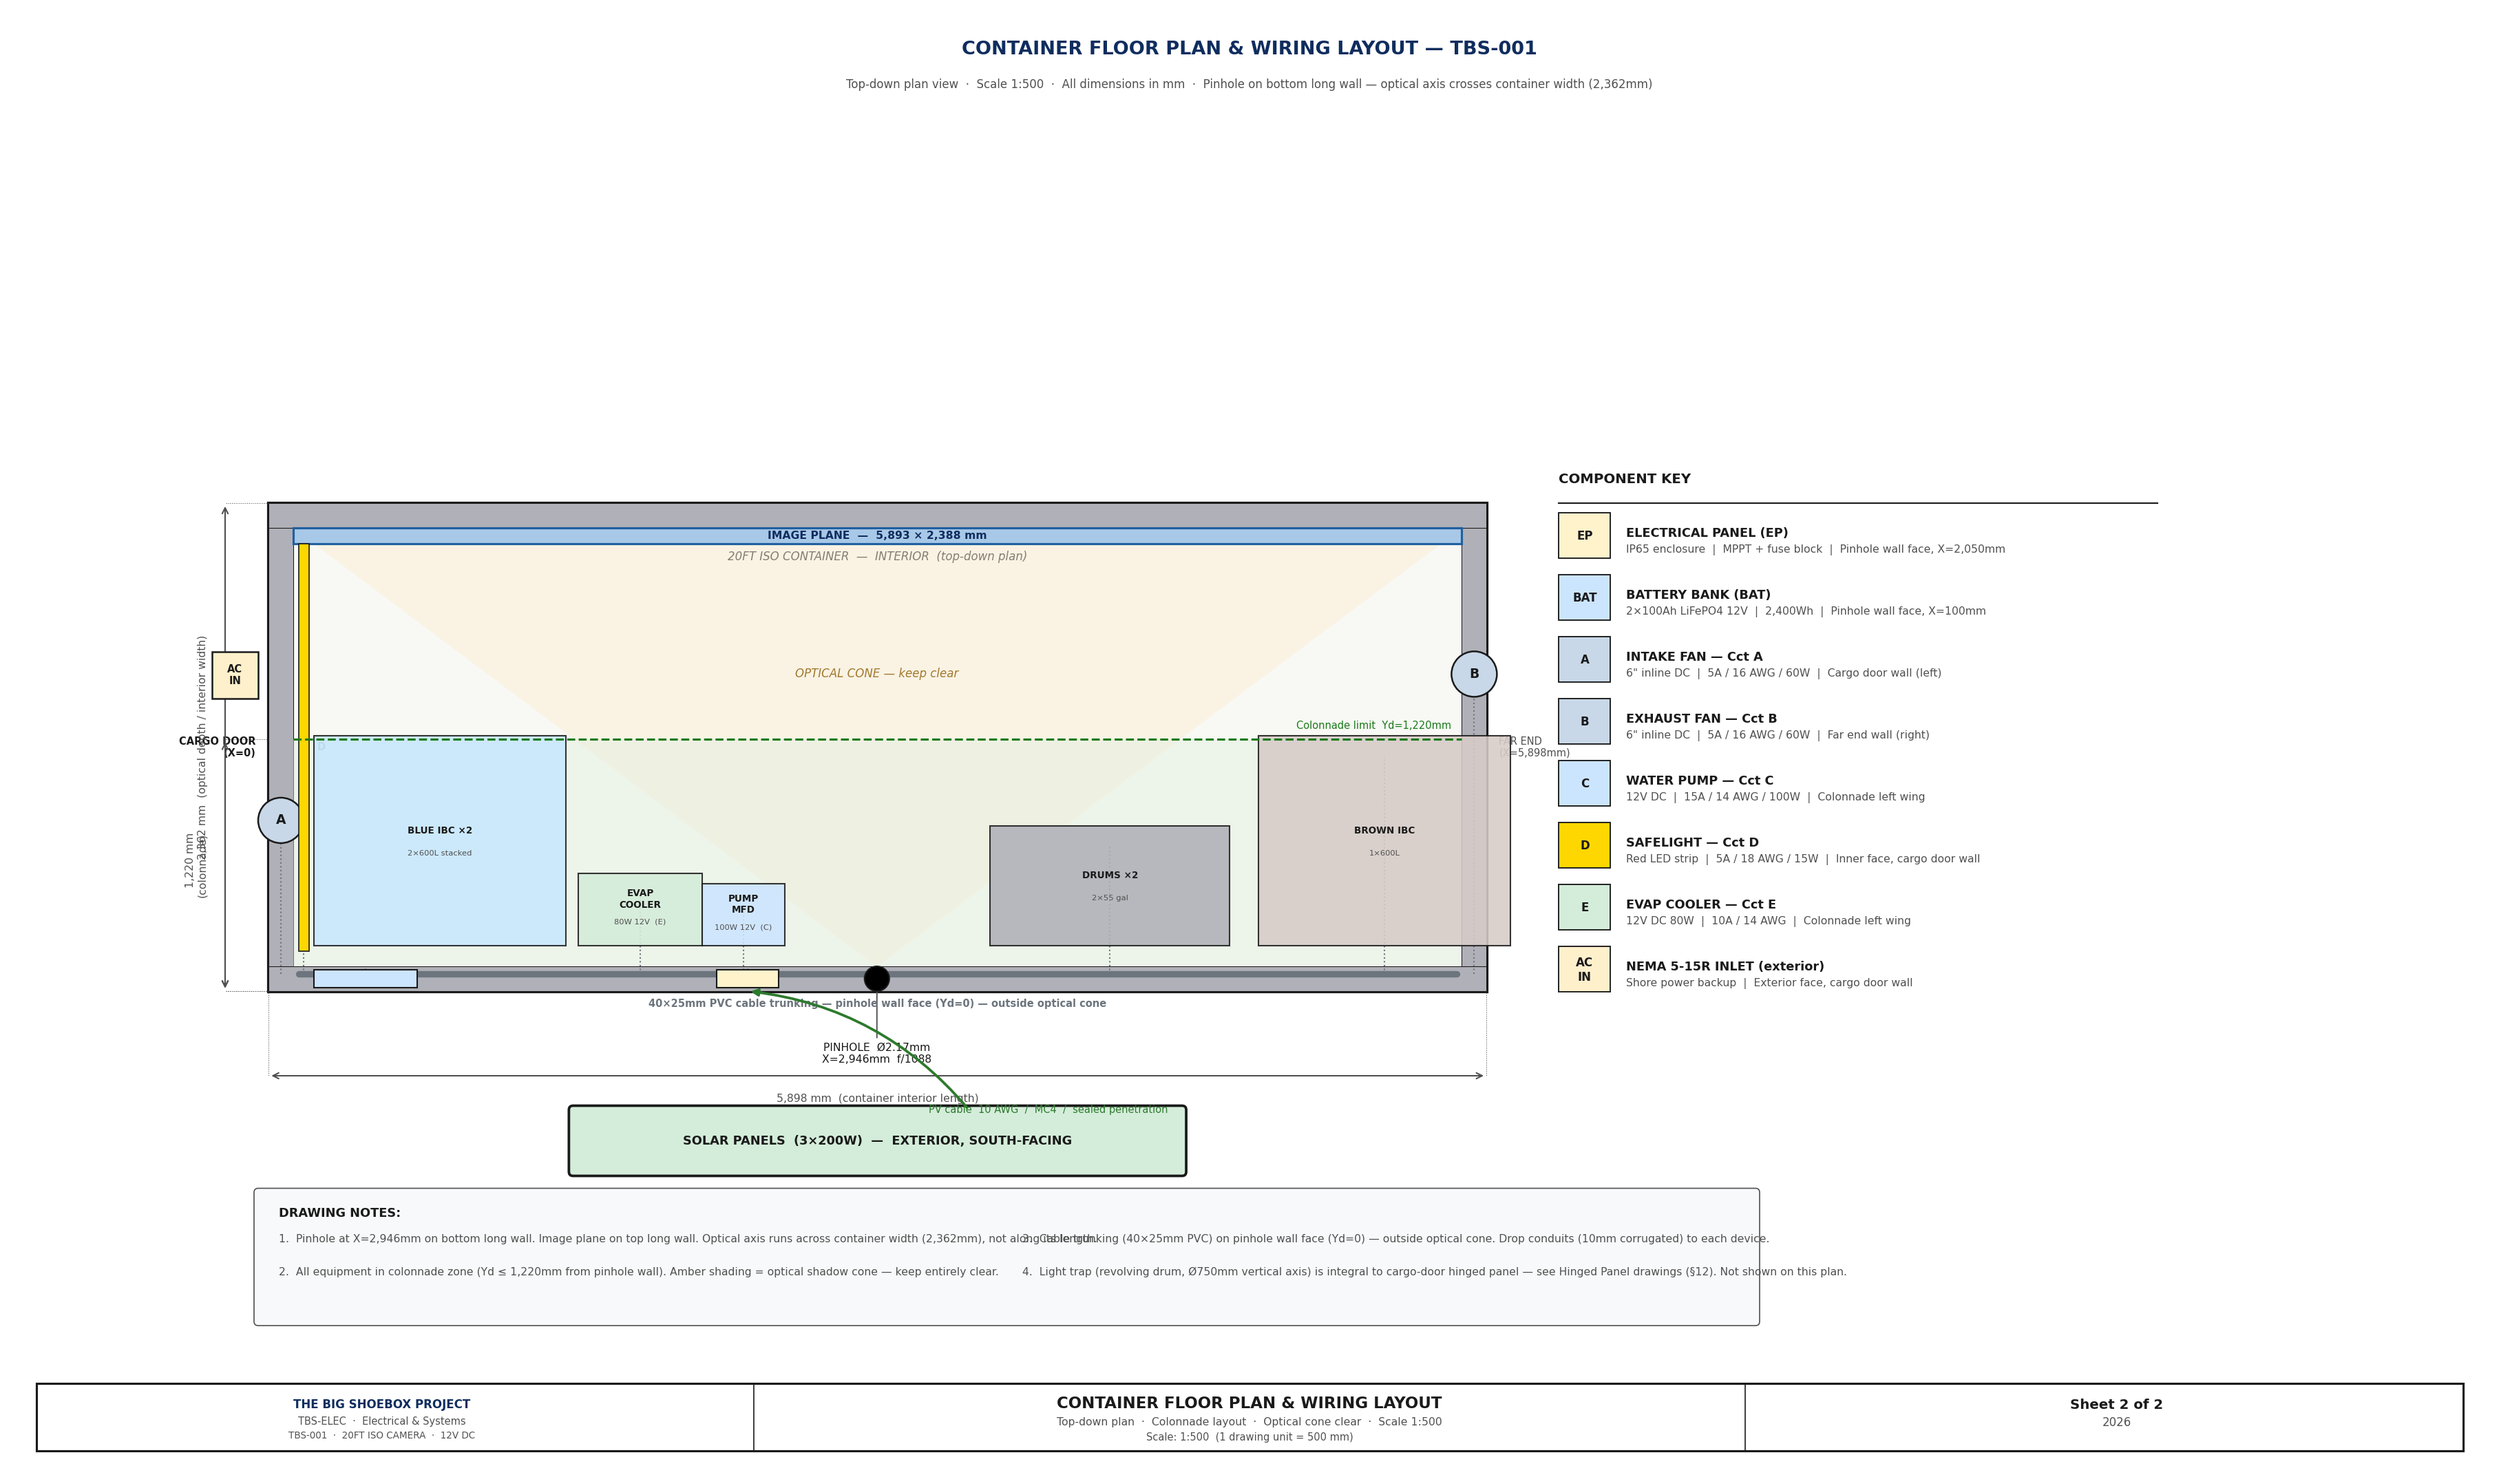
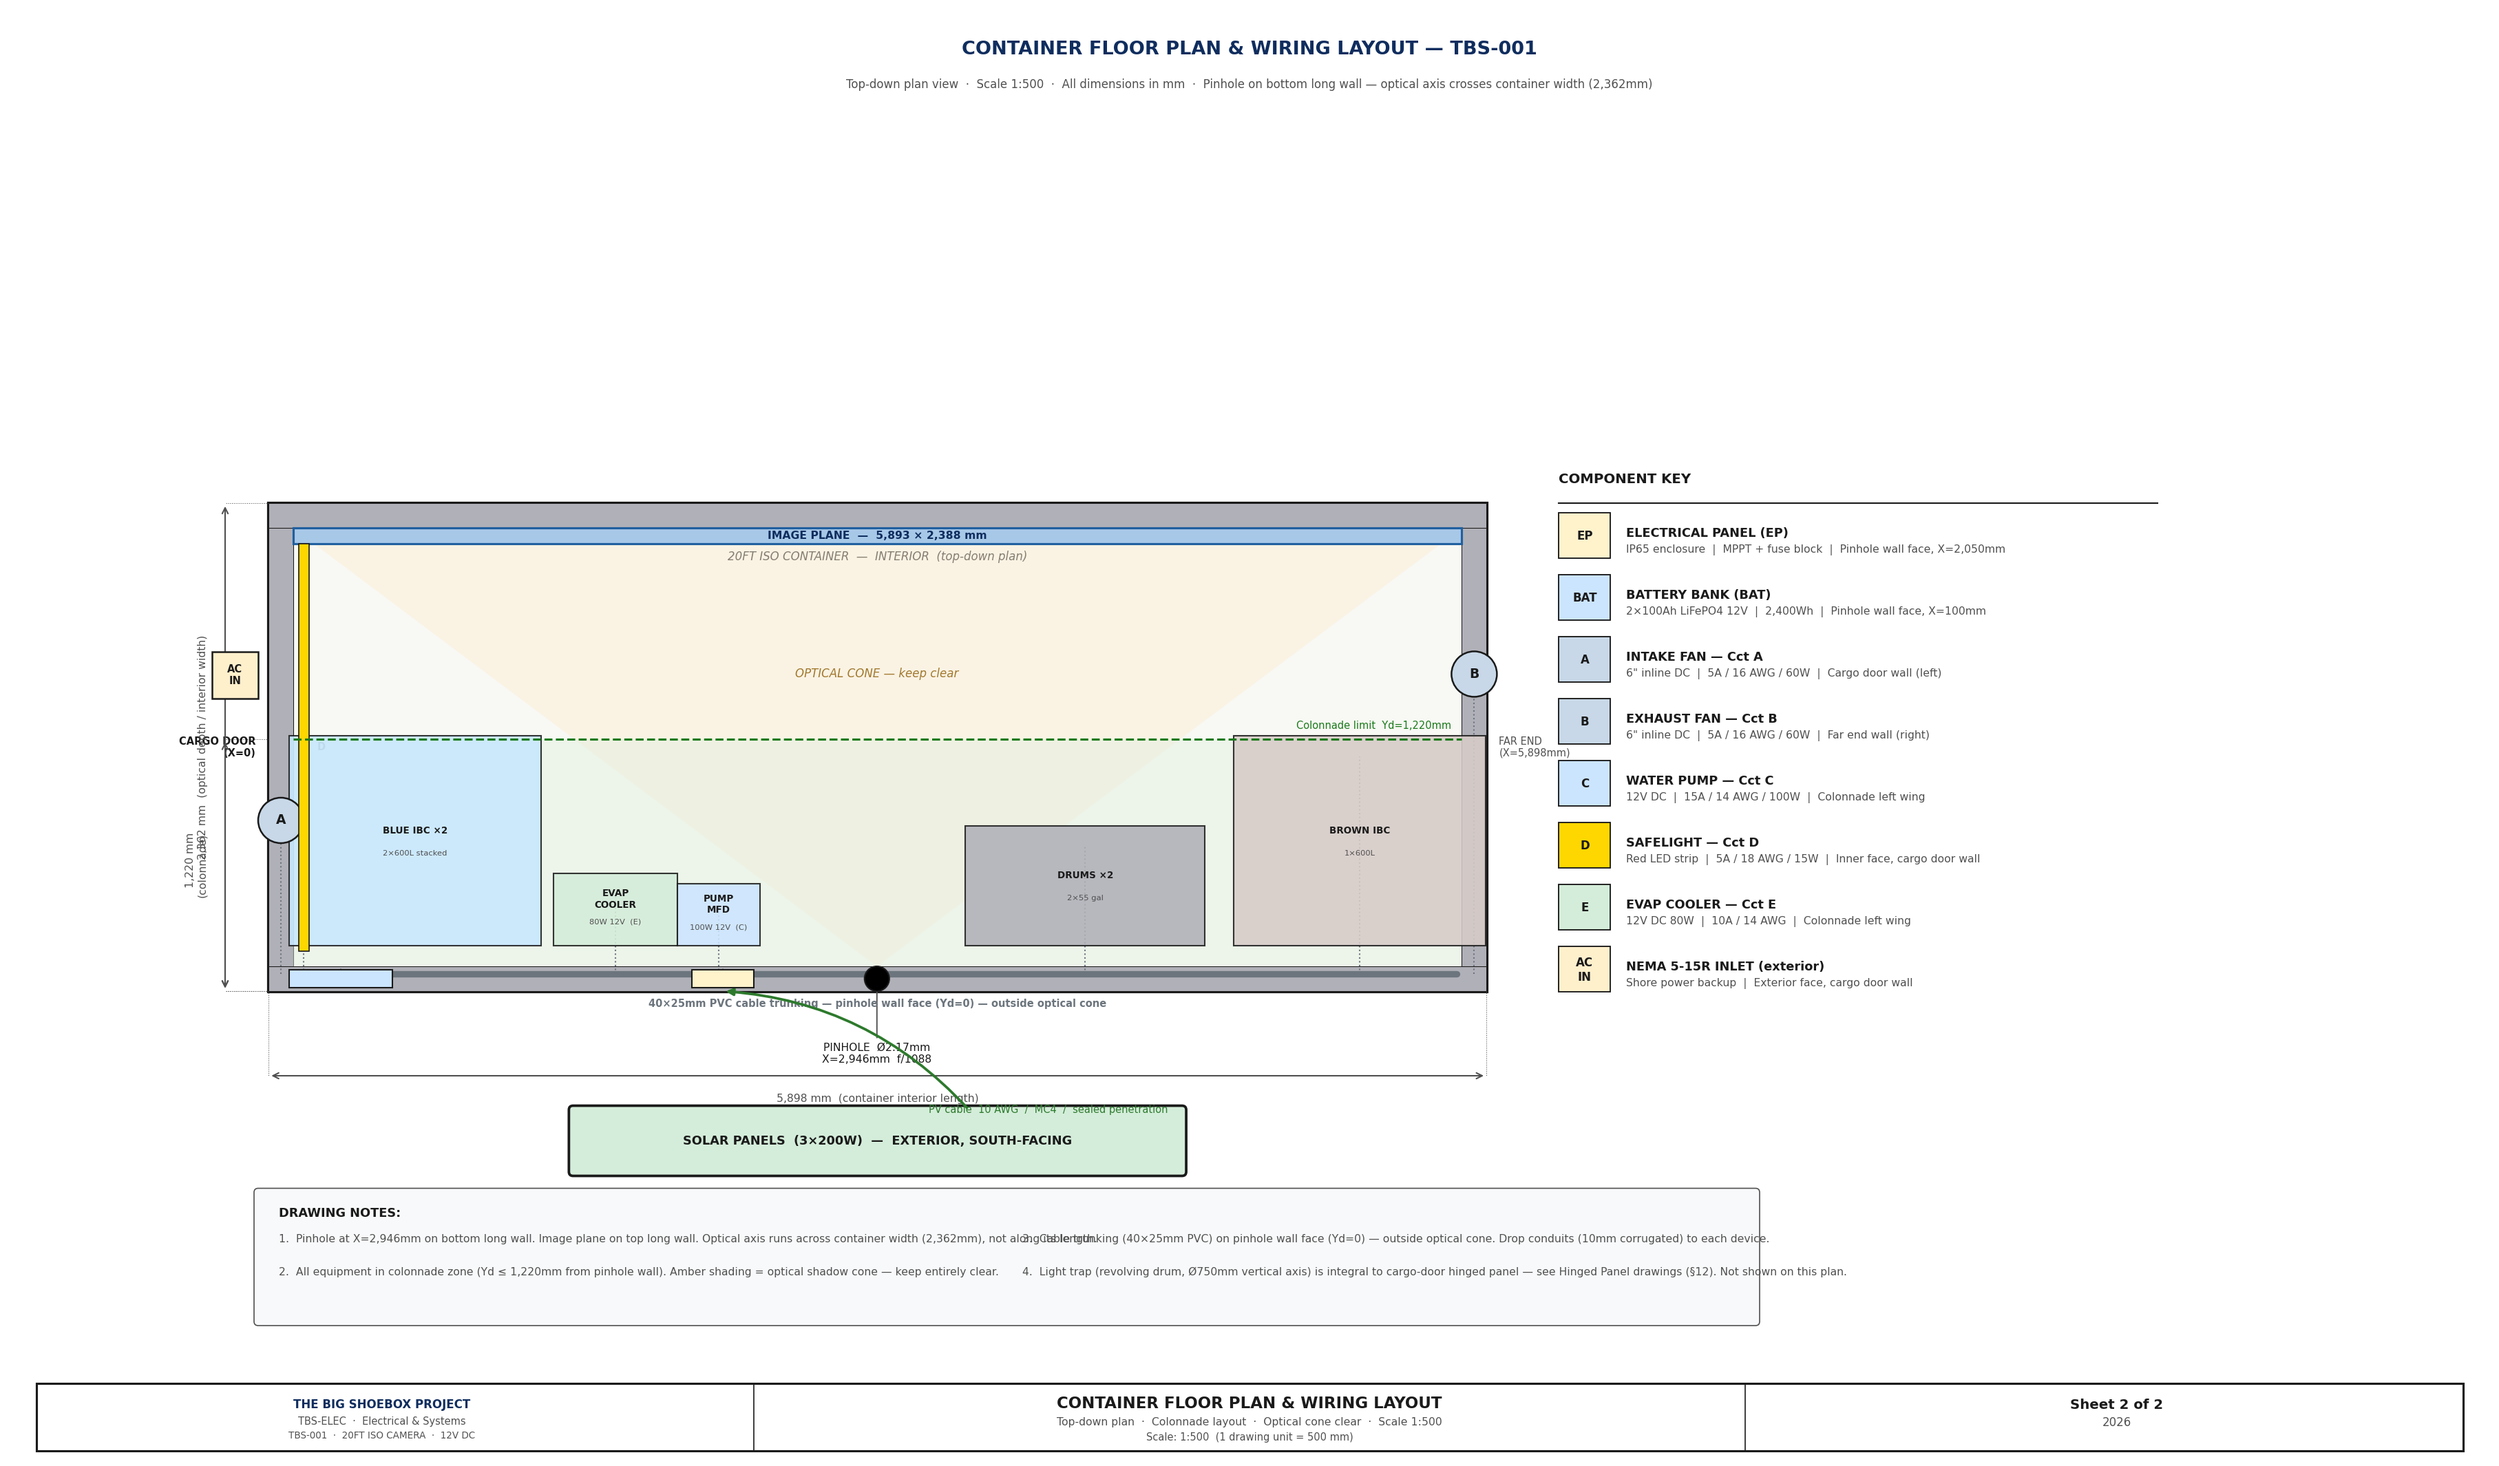
Fix Brown IBC drawn outside container on electrical Sheet 2
Root cause: equip() added schematic wall thickness (120mm) to x_mm offset,
reducing available interior span to 5,658mm. TBS coordinates run 0–5,893mm
(interior-to-interior, real wall ~3mm), so the Brown IBC at x=4,674–5,893mm
overflowed by 235mm.

Fix: equip() now maps TBS x directly to drawing (OX + x_mm*S). The 120mm
schematic wall fill is a visual overlay only. Updated EP, BAT, and all
conduit drop x-positions to match.

diff --git a/generate_electrical_diagram.py b/generate_electrical_diagram.py
@@ -510,10 +510,13 @@ def draw_sheet2():
 
     # ── Colonnade equipment ───────────────────────────────────────────────────
     # x_mm  = TBS X along long axis (0 = cargo door end = LEFT in plan)
+    #          TBS coords run 0–5,893mm interior-to-interior (real wall ~3mm).
+    #          Map directly to drawing: ex = OX + x_mm*S.
+    #          The schematic 120mm wall fill is a visual overlay only.
     # yd_mm = depth from pinhole wall (0 = pinhole wall = BOTTOM in plan)
     def equip(x_mm, yd_mm, w_mm, d_mm, label, col, sublabel=""):
-        ex = OX + wt + x_mm  * S
-        ey = OY + wt + yd_mm * S
+        ex = OX + x_mm  * S          # TBS X maps directly to drawing X
+        ey = OY + wt + yd_mm * S     # depth from interior face of pinhole wall
         ew = w_mm * S
         ed = d_mm * S
         ax.add_patch(mpatches.Rectangle((ex, ey), ew, ed,
@@ -537,7 +540,7 @@ def draw_sheet2():
 
     # ── EP + BAT wall-mounted on pinhole wall face (Yd=0) ────────────────────
     EP_X_MM, EP_W_MM = 2050, 300
-    EP_DX = OX + wt + EP_X_MM * S
+    EP_DX = OX + EP_X_MM * S
     EP_DW = EP_W_MM * S
     ax.add_patch(mpatches.Rectangle((EP_DX, OY + wt*0.15), EP_DW, wt*0.70,
                  fc=C_ELEC, ec=C_OUT, lw=1.0, zorder=7))
@@ -545,7 +548,7 @@ def draw_sheet2():
             ha="center", va="center", fontsize=6.5, fontweight="bold", color=C_OUT)
 
     BA_X_MM, BA_W_MM = 100, 500
-    BA_DX = OX + wt + BA_X_MM * S
+    BA_DX = OX + BA_X_MM * S
     BA_DW = BA_W_MM * S
     ax.add_patch(mpatches.Rectangle((BA_DX, OY + wt*0.15), BA_DW, wt*0.70,
                  fc=C_BATT, ec=C_OUT, lw=1.0, zorder=7))
@@ -596,10 +599,10 @@ def draw_sheet2():
     for ddx, ddy in [
         (BA_DX + BA_DW/2,    OY + wt),
         (EP_DX + EP_DW/2,    OY + wt),
-        (OX+wt + 1680*S,     OY+wt + 350*S),    # evap cooler
-        (OX+wt + 2180*S,     OY+wt + 300*S),    # pump
-        (OX+wt + 3954*S,     OY+wt + 580*S),    # drums centre
-        (OX+wt + 5283*S,     OY+wt + 1016*S),   # brown IBC centre
+        (OX + 1680*S,        OY+wt + 350*S),    # evap cooler
+        (OX + 2180*S,        OY+wt + 300*S),    # pump
+        (OX + 3954*S,        OY+wt + 580*S),    # drums centre
+        (OX + 5283*S,        OY+wt + 1016*S),   # brown IBC centre
         (FA_X,               FA_Y - 0.22),
         (FB_X,               FB_Y - 0.22),
         (SL_X + SL_W/2,      SL_Y1),
